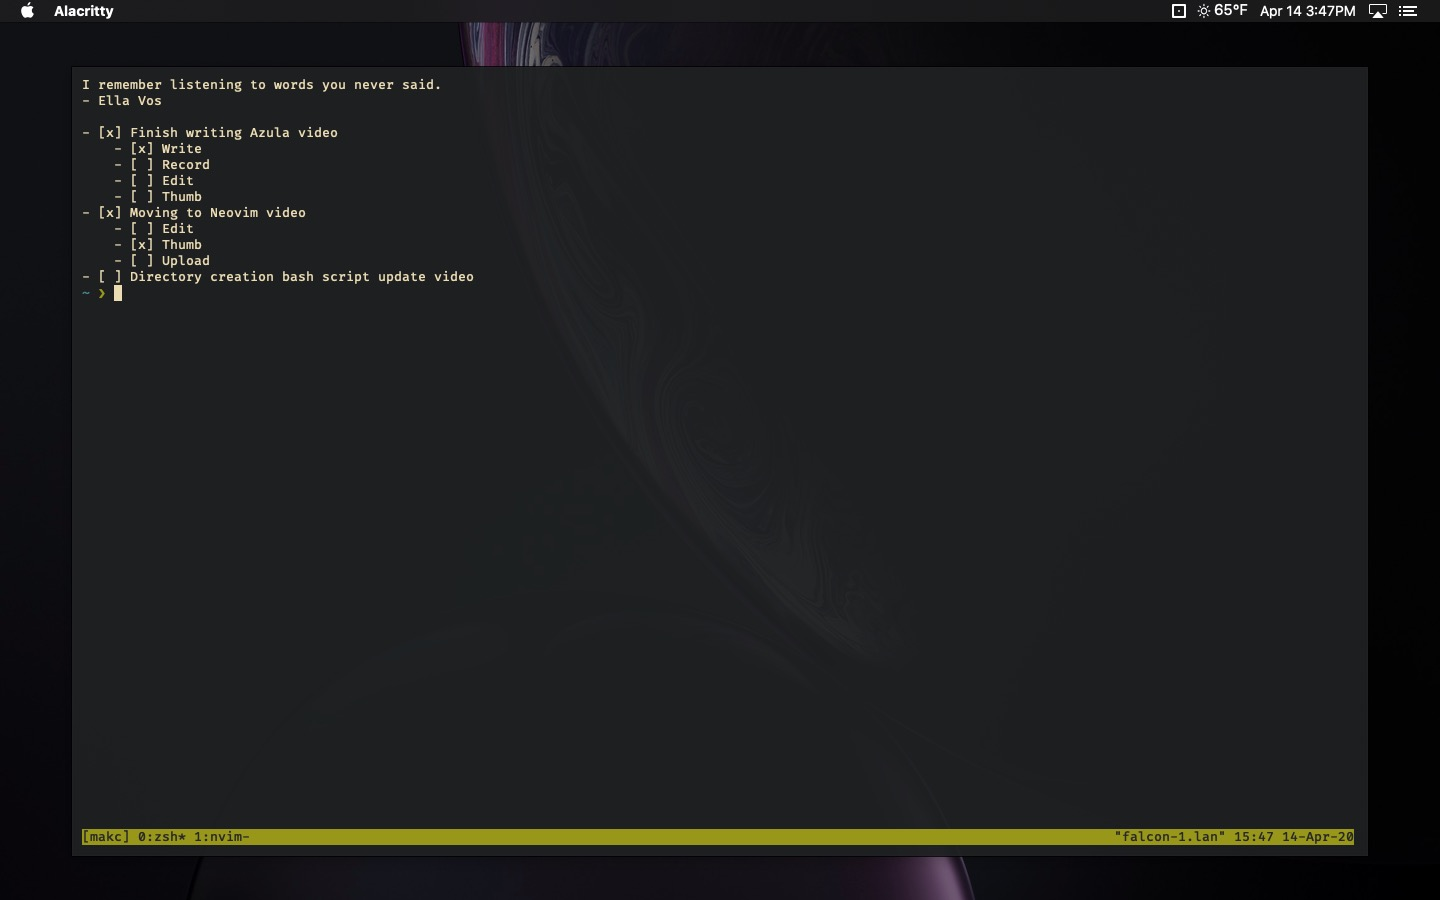
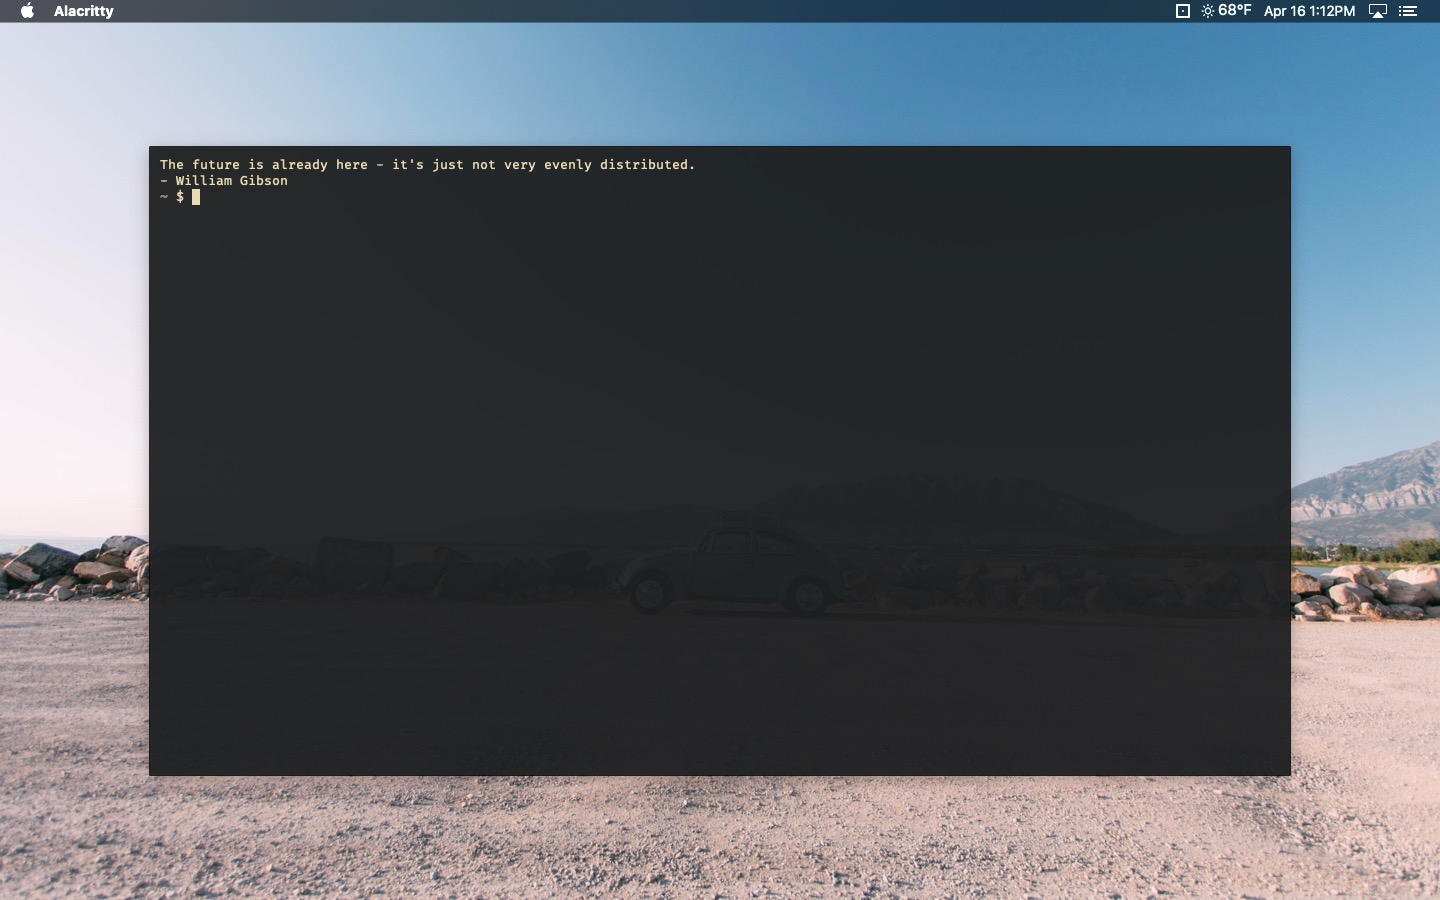
Switching to bash
I've been messing around with zsh and fish, but I think I'm ready to
just stick with bash for a while now. I've removed my .zshrc & .zprofile
from my dot files and replaced them with a .bashrc & a generic .profile,
that should be a bit better if I decide to switch shells again some-time
soon. I've also update the images for the repo, and the readme, to
reflect the switch to bash.

diff --git a/README.md b/README.md
@@ -3,9 +3,7 @@
 These are my dot files. I'm primarily a [MacOS](https://www.apple.com/macos/) user, but I occasionally use [Manjaro](https://manjaro.org/), or another Arch based Linux distribution; so that's where I take my cue. The main things here are: 
 
 1. My [Neovim](https://neovim.io/) configuration. 
-2. [Z-Shell](http://zsh.sourceforge.net/)
-    * [Oh-my-zsh](https://ohmyz.sh/)
-    * [Powerline 10k](https://github.com/romkatv/powerlevel10k) 
+2. [My Bash](https://www.gnu.org/software/bash/) configuration.
 3. My [Alacritty](https://github.com/alacritty/alacritty) configuration.
 4. My [Qutebroswer](https://qutebrowser.org/) configuration.
 5. Snippets for [Auto Hot Key](https://www.autohotkey.com/) & [Keyboard Maestro](https://www.keyboardmaestro.com/main/). 
@@ -19,24 +17,33 @@ I have also added configurations for [Atom](https://atom.io/), [hTop](https://hi
 Apps | Other stuff
  :-- | :---------- 
 [Alacritty](https://github.com/makccr/dot/blob/master/.config/alacritty/alacritty.yml) | [Alfred Preferences](https://github.com/makccr/dot/tree/master/misc/alfred-workflows/Alfred.alfredpreferences)
-[Bash Scripts](https://github.com/makccr/dot/tree/master/.bin) | [Alfred Work-flows](https://github.com/makccr/dot/tree/master/misc/alfred-workflows)
-[Git](https://github.com/makccr/dot/blob/master/.gitconfig) | [Apple Scripts](https://github.com/makccr/dot/tree/master/misc/apple-scripts)
-[Htop](https://github.com/makccr/dot/blob/master/.config/htop/htoprc) | [Apple Terminal](https://github.com/makccr/dot/blob/master/misc/macOS/terminals/Gruvbox.terminal)
-[Neovim](https://github.com/makccr/dot/blob/master/.config/nvim/init.vim) | [Auto Hot Key](https://github.com/makccr/dot/blob/master/misc/snippets/ahk/ahk.ahk)
-[Qutebroswer](https://github.com/makccr/dot/tree/master/.qutebrowser) | [Bitbar Plug-ins](https://github.com/makccr/dot/tree/master/misc/bitbar)
-[Vifm](https://github.com/makccr/dot/tree/master/.config/vifm) | [Fortune Database](https://github.com/makccr/dot/blob/master/quotes)
-[Zshrc](https://github.com/makccr/dot/blob/master/.zshrc) | [Keyboard Maestro](https://github.com/makccr/dot/blob/master/misc/snippets/keyboardMaestro.kmsync)
- | [Screen-savers](https://github.com/makccr/dot/tree/master/misc/macOS/screensavers)
+[Bash Settings](https://github.com/makccr/dot/tree/master/.bashrc) | [Alfred Work-flows](https://github.com/makccr/dot/tree/master/misc/alfred-workflows)
+[Bash Scripts](https://github.com/makccr/dot/tree/master/.bin) | [Apple Scripts](https://github.com/makccr/dot/tree/master/misc/apple-scripts)
+[Git](https://github.com/makccr/dot/blob/master/.gitconfig) | [Apple Terminal](https://github.com/makccr/dot/blob/master/misc/macOS/terminals/Gruvbox.terminal)
+[Htop](https://github.com/makccr/dot/blob/master/.config/htop/htoprc) | [Auto Hot Key](https://github.com/makccr/dot/blob/master/misc/snippets/ahk/ahk.ahk)
+[Neovim](https://github.com/makccr/dot/blob/master/.config/nvim/init.vim) | [Bitbar Plug-ins](https://github.com/makccr/dot/tree/master/misc/bitbar)
+[Profile](https://github.com/makccr/dot/tree/master/.profile) | [Fortune Database](https://github.com/makccr/dot/blob/master/quotes)
+[Qutebroswer](https://github.com/makccr/dot/tree/master/.qutebrowser) | [Keyboard Maestro](https://github.com/makccr/dot/blob/master/misc/snippets/keyboardMaestro.kmsync)
+ [Vifm](https://github.com/makccr/dot/tree/master/.config/vifm) | [Screen-savers](https://github.com/makccr/dot/tree/master/misc/macOS/screensavers)
 
-###### My Default Shell (It's usually running in Alacritty these days, you can't beat that GPU acceleration) 
+###### My Shell
 ![Screenshot](https://raw.githubusercontent.com/makccr/dotProfiles/master/images/profile.jpg)
 
 ```bash
+if [ -n "$BASH_VERSION" ]; then
+    # include .bashrc if it exists
+    if [ -f "$HOME/.bashrc" ]; then
+        . "$HOME/.bashrc"
+    fi
+fi
+
 #neofetch
 #transmission-remote -l
 #echo ' '
-fortune ~/repo/dot/quotes 
-#echo ' ' 
+fortune ~/repo/dot/quotes
+#echo ' '
+#cat ~/Dropbox/writing/notes/To-do.md
+#echo ' '
 #covid
 ```
 **My [nvim](https://github.com/neovim/neovim) Configuration.** | **My [vifm](https://github.com/vifm/vifm) Configuration.**
